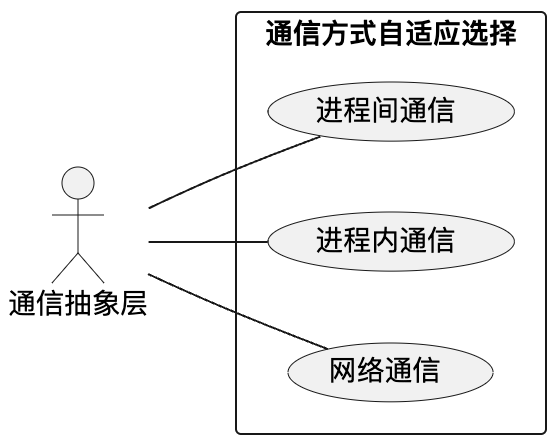
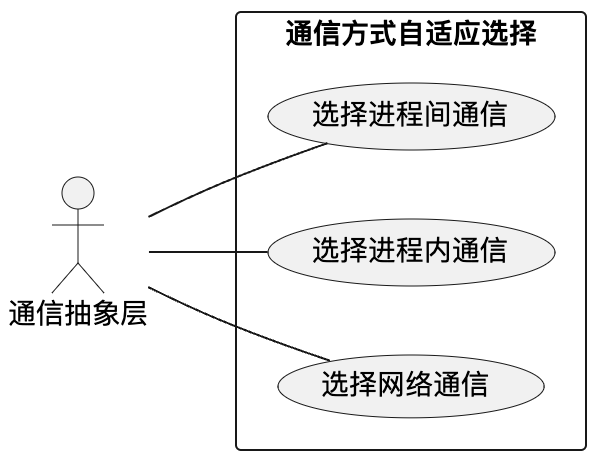
答辩后修改

diff --git a/chapters/chapter3.tex b/chapters/chapter3.tex
@@ -53,7 +53,6 @@
 
 综合本节阐述的自动驾驶单车内通信及单车与云端平台通信特点，可以得出自动驾驶系统对通信系统的要求是多样的。
 
-
 \subsection{业务流程描述}
 虽然自动驾驶运行时通信系统业务流程复杂，但从更抽象的角度来看，业务流程可大致分为如下四步：
 \begin{enumerate}
@@ -66,7 +65,7 @@
 图\ref{bussiness_procedure}是对建立通信业务流程的描述说明。
 \begin{figure}[H]
   \centering
-  \includegraphics[width=0.7\textwidth]{bussiness_procedure.png}
+  \includegraphics[width=0.85\textwidth]{bussiness_procedure.png}
   \caption{建立通信业务流程图}
   \label{bussiness_procedure}
 \end{figure}
@@ -214,6 +213,31 @@
 并协助通信双方按照通信方式建立通信链路。
 
 通信方式自适应选择功能由通信系统内部的通信抽象层实现，通信方式自适应选择用例图如图\ref{adaptive_communication_yongli}所示。
+用例说明如表\ref{adaptive_communication_shuoming}所示。
+\begin{longtable}{ll}
+  \caption{通信方式自适应选择用例说明} \label{adaptive_communication_shuoming} \\
+  \toprule \multicolumn{1}{l}{测试用例名称} & \multicolumn{1}{l}{测试步骤}  \\ \midrule 
+  \endfirsthead
+  
+  \multicolumn{2}{c}%
+  {{\bfseries \textbf{续\tablename\ \thetable{}~~~~通信方式自适应选择用例说明}}}\\
+  \toprule \multicolumn{1}{l}{测试用例名称} & \multicolumn{1}{l}{测试步骤}  \\ \midrule
+  \endhead
+  
+  \bottomrule  \multicolumn{2}{l}{{\textbf{表格接下页}}}\\ 
+  \endfoot
+  
+  \bottomrule
+  \endlastfoot
+  行为角色 & 通信抽象层\\
+  用例说明 & 根据发布者与订阅者网络信息选择通信方式；\\
+  前置条件 & 发布者与订阅者网络信息存在且合法；\\
+  后置条件 & 自适应选择通信方式成功，发布者与订阅者建立通信链路开始通信；\\
+  基本流   & \makecell[l]{1.获取发布者网络信息；\\2.获取订阅者网络信息；\\3.比较发布者与订阅者所处网络的IP地址和进程号；}\\
+  分支流   & \makecell[l]{3a.若发布者与订阅者IP地址不一致，使用网络通信；\\3b.若发布者与订阅者进程号一致使用进程内通信；\\3c.若发布者与订阅者进程号不一致，使用进程间通信；} \\
+  异常流   & \makecell[l]{1a.发布者网络信息不存在或不合法，通信方式选择失败；\\2a.订阅者者网络信息不存在或不合法，通信方式选择失败；\\3a.根据发布者与订阅者网络信息无法选择对应通信方式，通信方式选择失败；}\\
+
+\end{longtable}
 
 \begin{figure}[H]
   \centering
@@ -263,18 +287,19 @@
 \end{table}
 
 \subsection{序列化中间语言生成}
-本文采用Google Protocol Buffer作为网络通信和进程间通信中序列化和反序列化方案。该方案需要用户使用接口描述语言
-(interface descriptor language, IDL)创建.proto文件并生成某个自定义数据类型的序列化与反序列化代码。当用户数量增多并且数据类型
-变多时.proto文件的管理将变得复杂，同时将Protocol Buffer自动生成的代码集成到业务代码的工作量也将显著提升。考虑到
-Protocol Buffer生成代码的使用方法和数据赋值方法与C++有较大差别，本系统设计一套中间语言作为Protocol Buffer和原生
-C++的中间层，方便用户使用。
-
-\begin{figure}[H]
+本文采用Google Protocol Buffer作为网络通信和进程间通信中序列化和反序列化方案。
+\begin{figure}[htb]
   \centering
   \includegraphics[width=0.75\textwidth]{middle_language_uml.png}
   \caption{序列化中间语言生成用例图}
   \label{middle_language_uml}
 \end{figure}
+该方案需要用户使用接口描述语言
+(interface descriptor language, IDL)创建.proto文件并生成某个自定义数据类型的序列化与反序列化代码。当用户数量增多并且数据类型
+变多时.proto文件的管理将变得复杂，同时将Protocol Buffer自动生成的代码集成到业务代码的工作量也将显著提升。考虑到
+Protocol Buffer生成代码的使用方法和数据赋值方法与C++有较大差别，本系统设计一套中间语言作为Protocol Buffer和原生
+C++的中间层，方便用户使用。
+
 
 序列化中间语言生成用例图如图\ref{middle_language_uml}所示。用户只需要编写自己需要的数据类型的.proto文件，
 中间代码生成器将解析用户编写的.proto文件并自动生成一套中间语言代码，生成之后打包为静态库。用户只需要链接静态库即可，
